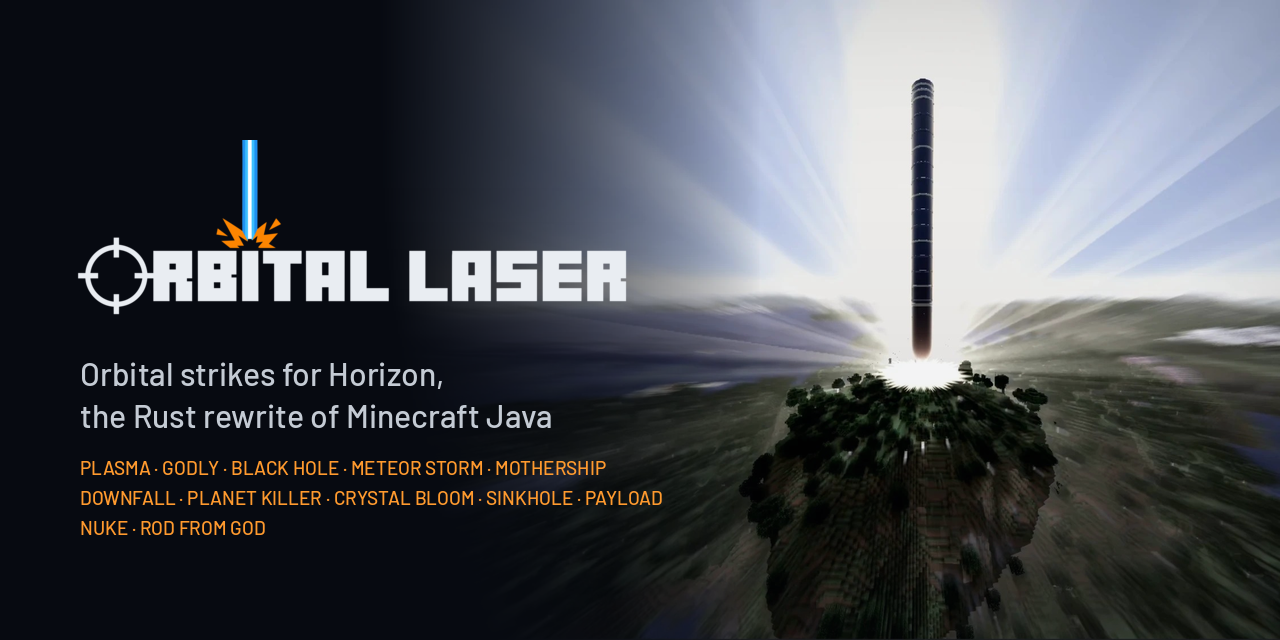
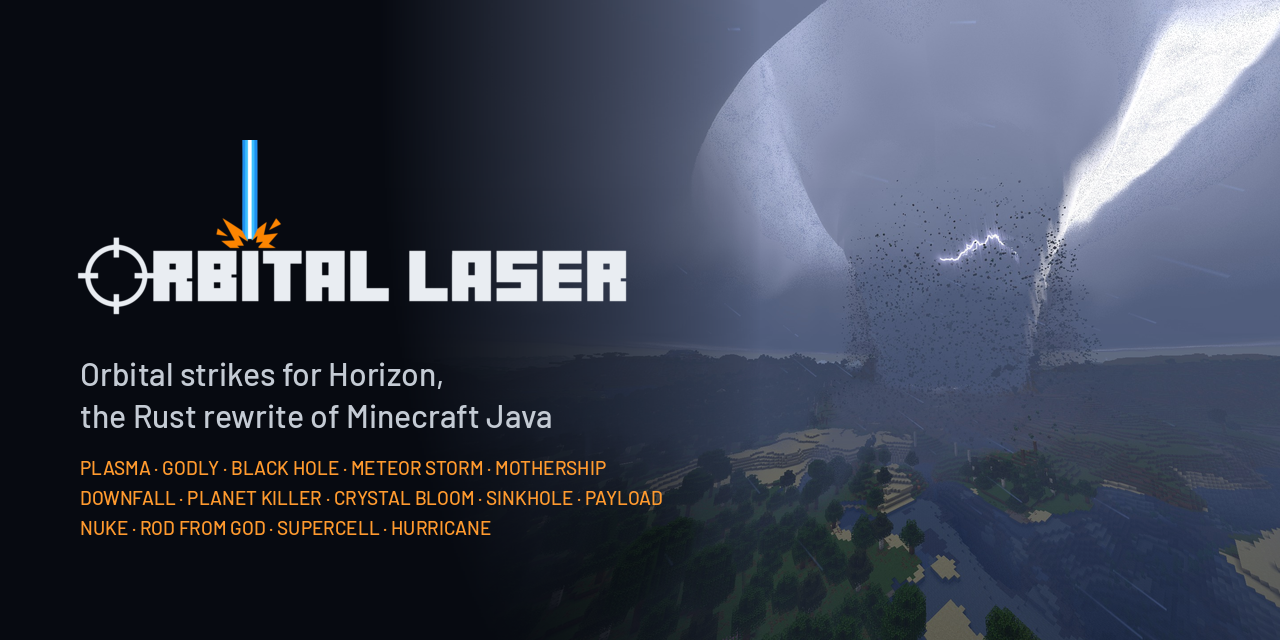
Social card over the Hurricane (the user's screenshot), with the Supercell and the Hurricane on its list

diff --git a/tools/make_branding.py b/tools/make_branding.py
@@ -36,11 +36,11 @@ def raster(svg, width):
 def social_preview():
     W, H = 1280, 640
     # a strike on the right of the card (its ship and beam clear of the words), fading into the dark on the left
-    # (the Rod from God as it strikes, its rays fanning out)
-    shot = Image.open(ROOT / "docs" / "branding" / "rod-card.jpg").convert("RGB")
+    # (the Hurricane over the land, its eyewall towering, its debris and lightning in the middle)
+    shot = Image.open(ROOT / "docs" / "branding" / "hurricane-card.jpg").convert("RGB")
     shot = shot.resize((round(shot.width * H / shot.height), H), Image.LANCZOS)
     card = Image.new("RGBA", (W, H), (7, 10, 17, 255))
-    card.paste(shot, (W - shot.width + 200, 0))
+    card.paste(shot, (W - shot.width, 0))
     shade = Image.new("RGBA", (W, H))
     px = shade.load()
     for x in range(W):
@@ -57,7 +57,7 @@ def social_preview():
     names = ImageFont.truetype(str(FONT), 19)
     d.text((80, 140 + logo.height + 136), "PLASMA · GODLY · BLACK HOLE · METEOR STORM · MOTHERSHIP", font=names, fill="#FF9A2E")
     d.text((80, 140 + logo.height + 166), "DOWNFALL · PLANET KILLER · CRYSTAL BLOOM · SINKHOLE · PAYLOAD", font=names, fill="#FF9A2E")
-    d.text((80, 140 + logo.height + 196), "NUKE · ROD FROM GOD", font=names, fill="#FF9A2E")
+    d.text((80, 140 + logo.height + 196), "NUKE · ROD FROM GOD · SUPERCELL · HURRICANE", font=names, fill="#FF9A2E")
     card.convert("RGB").save(OUT / "social-preview.png", optimize=True)
 
 
